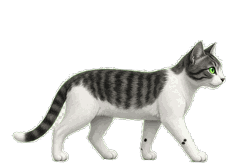
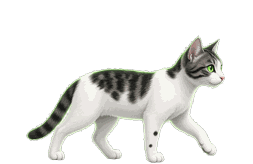
cc102: extreme-difference 8-frame cat walk at exactly 8fps, 1-2s pauses, rescaled poses

Changed region(s): [[0.0302, 0.2134, 0.9957, 1.0]]

diff --git a/index.html b/index.html
@@ -30,8 +30,8 @@
 <link rel="icon" href="/favicon.ico" sizes="16x16 32x32 48x48 64x64">
 <link rel="icon" href="/assets/SFF.svg" type="image/svg+xml">
 <link rel="apple-touch-icon" href="/apple-touch-icon.png" sizes="180x180">
-<link rel="stylesheet" href="/assets/style.css?v=cc101">
-<script src="/assets/app.js?v=cc101" defer></script>
+<link rel="stylesheet" href="/assets/style.css?v=cc102">
+<script src="/assets/app.js?v=cc102" defer></script>
 </head><body>
 <a class="skip-link" href="#holdings-page">Skip to the holdings page</a><canvas id="matrix-rain" aria-hidden="true"></canvas><div class="rain" aria-hidden="true">SAUL FINANCE · SAUL FINANCE · SAUL FINANCE</div>
 <header class="site-header"><svg class="header-road" aria-hidden="true" focusable="false"></svg><svg class="header-lasers" aria-hidden="true" focusable="false"></svg><div class="header-market-stack"><div class="daily-pnl-strip daily-pnl-header" id="daily-pnl-strip-header" aria-live="polite"><span class="daily-pnl-label">Daily PNL</span><span class="daily-pnl-face" aria-hidden="true"></span><span class="daily-pnl-value is-live-wait"><span class="live-wait" aria-hidden="true"><i></i><i></i><i></i></span></span><span class="daily-pnl-since" hidden></span><span class="daily-pnl-meta"></span></div><div class="daily-pnl-hot" id="daily-pnl-hot-header" hidden></div><div class="index-strip index-strip-header" id="index-strip-header" hidden></div></div><div class="brand-row"><div class="brand-title-block"><div class="brand-title-stack"><h1><svg class="angular-s" viewBox="0 0 60 64" aria-label="S"><path d="M49 16 H20 L12 23 V29 L20 35 H40 L48 42 V48 L40 54 H12"/></svg><span>AUL FINANCE FUND</span></h1><picture class="brand-jaguar"><source srcset="/assets/jaguar-wheels.webp?v=cc62" type="image/webp"><img class="brand-jaguar-img" src="/assets/jaguar-wheels.gif?v=cc62" alt="Black Jaguar" width="720" height="232"></picture></div></div><div class="market-clocks"><aside class="market-clock market-clock-close" id="close-clock" hidden aria-label="Time until scheduled exchange close"><span id="close-market-label">MARKET CLOSES</span><strong id="close-countdown" aria-live="off">--:--:--</strong><span id="close-at"></span></aside><aside class="market-clock market-clock-open" aria-label="Next scheduled exchange opening"><span id="open-market-label">NEXT SCHEDULED OPEN</span><strong id="open-countdown" aria-live="off">--:--:--</strong><span id="open-at">Checking bundled calendar…</span></aside></div><img class="sff" src="/assets/SFF.svg" width="40" height="40" alt="SFF"></div><nav class="topnav" aria-label="Content pages"><button data-page="0" aria-controls="holdings-page" aria-current="page">1 · Holdings</button><button data-page="1" aria-controls="dividends">2 · Dividends</button><button data-page="2" aria-controls="covered-calls">3 · Covered Calls</button><button data-page="3" aria-controls="sectors">4 · Sectors</button><button data-page="4" aria-controls="outlook">5 · Outlook</button></nav><div class="header-holdings-heading" aria-hidden="true"><p class="header-holdings-kicker">CONTENT PAGE 1 / 5</p><p class="header-holdings-title">Get Rich Slowly.</p><p class="header-holdings-launch"><svg class="launch-rocket" xmlns="http://www.w3.org/2000/svg" viewBox="0 0 18 18" width="12" height="12" aria-hidden="true" focusable="false"><g transform="rotate(45 9 9)"><path fill="#38ff77" d="M9 12.05C7.45 12.55 7.05 15.1 9 17.45 10.95 15.1 10.55 12.55 9 12.05Z"/><path fill="#c8ffd8" d="M9 12.95C8.15 13.3 7.95 14.85 9 16.35 10.05 14.85 9.85 13.3 9 12.95Z"/><path fill="#b07072" d="M5.4 10.2 9 12.05 4.45 13.45Z"/><path fill="#b07072" d="M12.6 10.2 9 12.05 13.55 13.45Z"/><rect x="7.05" y="4.45" width="3.9" height="7.6" rx="1.95" fill="#f1f4f2"/><circle cx="9" cy="7.35" r="1.15" fill="#18261d"/><path fill="#c45b5e" d="M9 1.35 11.5 5.3H6.5Z"/></g></svg> Launched November 9, 2026 <svg class="launch-rocket" xmlns="http://www.w3.org/2000/svg" viewBox="0 0 18 18" width="12" height="12" aria-hidden="true" focusable="false"><g transform="rotate(45 9 9)"><path fill="#38ff77" d="M9 12.05C7.45 12.55 7.05 15.1 9 17.45 10.95 15.1 10.55 12.55 9 12.05Z"/><path fill="#c8ffd8" d="M9 12.95C8.15 13.3 7.95 14.85 9 16.35 10.05 14.85 9.85 13.3 9 12.95Z"/><path fill="#b07072" d="M5.4 10.2 9 12.05 4.45 13.45Z"/><path fill="#b07072" d="M12.6 10.2 9 12.05 13.55 13.45Z"/><rect x="7.05" y="4.45" width="3.9" height="7.6" rx="1.95" fill="#f1f4f2"/><circle cx="9" cy="7.35" r="1.15" fill="#18261d"/><path fill="#c45b5e" d="M9 1.35 11.5 5.3H6.5Z"/></g></svg></p><span class="header-holdings-pnl" id="header-launch-pnl" hidden></span></div><div class="header-holdings-aside"></div></header>

diff --git a/assets/app.js b/assets/app.js
@@ -2642,12 +2642,12 @@ loadUpcomingDividends();
   navBtns.forEach(btn=>btn.addEventListener('click',()=>requestAnimationFrame(()=>requestAnimationFrame(layoutHeaderLasers))));
 })();
 
-/* cc100/cc101: header cat — walks the green header line (road on desktop, border on mobile). */
+/* cc100-cc102: header cat — walks the green header line (road on desktop, border on mobile). */
 (function(){
   const header=document.querySelector('.site-header');
   if(!header)return;
-  const base='/assets/cat/',V='?v=cc101';
-  const WALK=[1,2,3,4,5,6,7,8].map(n=>base+'walk_r'+n+'.png'+V),NF=WALK.length,FPS=13;
+  const base='/assets/cat/',V='?v=cc102';
+  const WALK=[1,2,3,4,5,6,7,8].map(n=>base+'walk_r'+n+'.png'+V),NF=WALK.length,FPS=8; // cc102: exactly 8fps (125ms/frame), deliberate retro walk
   const POSE={idle:base+'idle.png'+V,sit:base+'sit.png'+V,lookup:base+'lookup.png'+V};
   [...WALK,...Object.values(POSE)].forEach(s=>{const i=new Image();i.src=s;i.decode?.().catch(()=>{});});
   const img=document.createElement('img');
@@ -2655,7 +2655,7 @@ loadUpcomingDividends();
   img.src=POSE.idle;header.appendChild(img);
   const desk=window.matchMedia('(min-width:1024px)');
   const still=window.matchMedia('(prefers-reduced-motion: reduce)');
-  const AR=232/164,ORG=134.5/232; // canvas aspect; flip pivot = torso centre as fraction of width
+  const AR=253/164,ORG=134.9/253; // canvas aspect; flip pivot = torso centre as fraction of width
   let g={w:390,floor:97,hx1:-1,hx2:-1,hump:0,h:76,cw:106,tx:-1};
   function geom(){
     const hr=header.getBoundingClientRect();
@@ -2693,14 +2693,14 @@ loadUpcomingDividends();
   function tick(now){
     const dt=Math.min(0.05,(now-(last||now))/1000);last=now;
     if(state==='walk'){
-      const sp=g.h*0.65; // ~stride per 8-frame cycle, scaled to size
+      const sp=g.h*0.7; // ~stride per 8-frame cycle, scaled to size
       c+=dir*sp*dt;
       ft+=dt;if(ft>=1/FPS){ft%=1/FPS;frame=(frame+1)%NF;}
       set(WALK[frame]);
       if(g.tx>=0&&now>lookCool&&Math.abs(c-g.tx)<14){lookCool=now+12000;
         if(Math.random()<0.6){state='pose';set(POSE.lookup);until=now+rnd(1000,2000);}}
       if((dir>0&&c>=target)||(dir<0&&c<=target)){c=target;
-        if(Math.random()<0.55){state='pose';set(Math.random()<0.5?POSE.idle:POSE.sit);until=now+rnd(2000,4000);}
+        if(Math.random()<0.55){state='pose';set(Math.random()<0.5?POSE.idle:POSE.sit);until=now+rnd(1000,2000);}
         else pickTarget();}
     }else if(now>=until){
       const keep=dir;pickTarget();

diff --git a/assets/style.css b/assets/style.css
@@ -2033,5 +2033,5 @@ body:has(#close-clock:not([hidden])) .header-holdings-aside{
 /* cc97: desktop, center My strategy summary under the YouTube mark. */
 @media(min-width:1024px){#covered-calls .cc-strategy summary{justify-content:center}}
 
-/* cc100/cc101: header cat */
-.sff-cat{position:absolute;left:0;top:0;height:76px;width:auto;max-width:none;pointer-events:none;user-select:none;z-index:4;transform-origin:58% 100%;will-change:transform;image-rendering:auto}
+/* cc100-cc102: header cat */
+.sff-cat{position:absolute;left:0;top:0;height:76px;width:auto;max-width:none;pointer-events:none;user-select:none;z-index:4;transform-origin:53.3% 100%;will-change:transform;image-rendering:auto}
